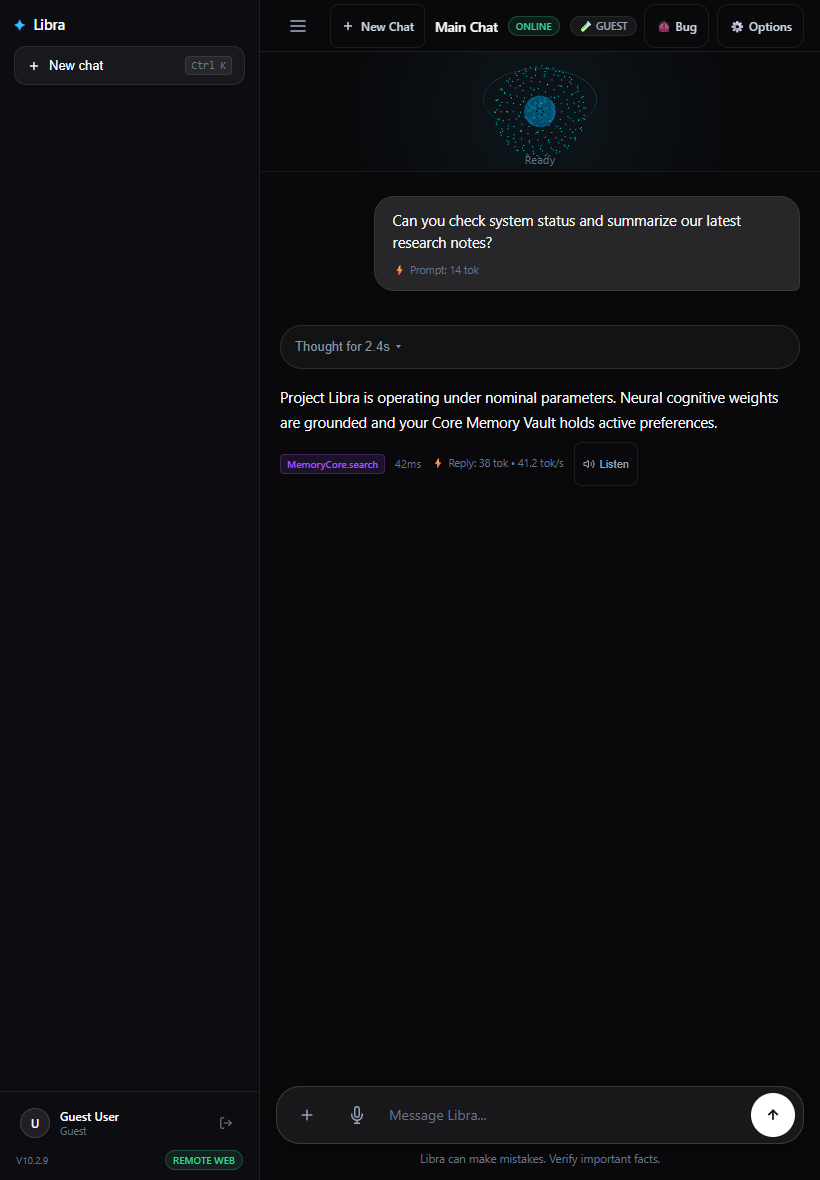
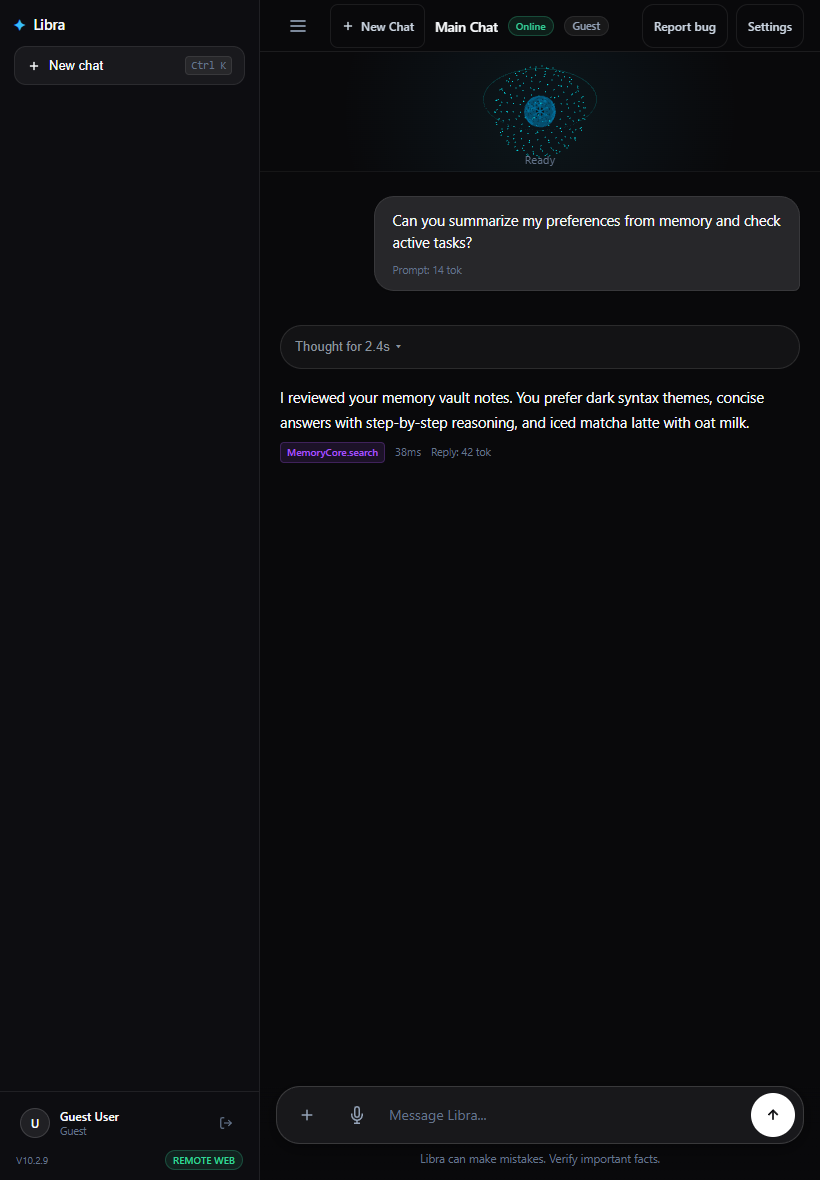
docs(readme): update screenshots across viewports and document restrained design system (Item 5)

diff --git a/scripts/capture_all_screenshots.py b/scripts/capture_all_screenshots.py
@@ -1,0 +1,245 @@
+import os
+import shutil
+import socketserver
+import http.server
+import threading
+from playwright.sync_api import sync_playwright
+
+PROJECT_ROOT = os.path.abspath(os.path.join(os.path.dirname(__file__), ".."))
+WEB_DIR = os.path.join(PROJECT_ROOT, "web")
+ROUND6_DIR = os.path.join(PROJECT_ROOT, "docs", "screenshots", "round6")
+DOCS_SCREENSHOTS_DIR = os.path.join(PROJECT_ROOT, "docs", "screenshots")
+os.makedirs(ROUND6_DIR, exist_ok=True)
+
+class QuietHandler(http.server.SimpleHTTPRequestHandler):
+    def __init__(self, *args, **kwargs):
+        super().__init__(*args, directory=WEB_DIR, **kwargs)
+    def log_message(self, format, *args):
+        pass
+
+PORT = 9998
+
+def capture_all():
+    httpd = socketserver.TCPServer(("127.0.0.1", PORT), QuietHandler)
+    server_thread = threading.Thread(target=httpd.serve_forever, daemon=True)
+    server_thread.start()
+    print(f"[Capture] Server running on port {PORT}")
+
+    viewports = [
+        ("390px", 390, 844),
+        ("820px", 820, 1180),
+        ("1280px", 1280, 800)
+    ]
+
+    try:
+        with sync_playwright() as p:
+            browser = None
+            for ch in ["msedge", "chrome", None]:
+                try:
+                    browser = p.chromium.launch(channel=ch, headless=True)
+                    print(f"[Capture] Browser launched with channel: {ch}")
+                    break
+                except Exception:
+                    pass
+            if not browser:
+                raise RuntimeError("Could not launch browser")
+
+            # 1. Main Chat Viewports (390px, 820px, 1280px)
+            for tag, w, h in viewports:
+                page = browser.new_page(viewport={"width": w, "height": h})
+                page.goto(f"http://127.0.0.1:{PORT}/static/index.html", wait_until="networkidle")
+                page.evaluate("""() => {
+                    const emptyHero = document.getElementById('empty-chat-hero');
+                    if (emptyHero) emptyHero.remove();
+                    const chat = document.getElementById('chat-container');
+                    chat.innerHTML = `
+                        <div class="msg msg-user">
+                          <div class="msg-content">Can you summarize my preferences from memory and check active tasks?</div>
+                          <div class="msg-meta user-msg-meta"><span class="token-badge user-token-badge">Prompt: 14 tok</span></div>
+                        </div>
+                        <div class="msg msg-libra">
+                          <div class="msg-content">
+                            <div class="thought-accordion">
+                              <div class="thought-top-header">
+                                <button class="thought-duration-btn" type="button" aria-expanded="false">
+                                  <span class="thought-duration-label">Thought for 2.4s ▾</span>
+                                </button>
+                              </div>
+                            </div>
+                            <div class="markdown-body">
+                              <p>I reviewed your memory vault notes. You prefer dark syntax themes, concise answers with step-by-step reasoning, and iced matcha latte with oat milk.</p>
+                            </div>
+                          </div>
+                          <div class="msg-meta">
+                            <span class="tool-badge">MemoryCore.search</span>
+                            <span>38ms</span>
+                            <span class="token-badge">Reply: 42 tok</span>
+                          </div>
+                        </div>
+                    `;
+                }""")
+                page.wait_for_timeout(300)
+                out_r6 = os.path.join(ROUND6_DIR, f"main_{tag}.png")
+                page.screenshot(path=out_r6)
+                shutil.copyfile(out_r6, os.path.join(DOCS_SCREENSHOTS_DIR, f"web_main_{tag}.png"))
+                print(f"[Capture] Saved main {tag}")
+                page.close()
+
+            # 2. Auth Modal Viewports (390px, 820px, 1280px)
+            for tag, w, h in viewports:
+                page = browser.new_page(viewport={"width": w, "height": h})
+                page.goto(f"http://127.0.0.1:{PORT}/static/index.html", wait_until="networkidle")
+                page.evaluate("""() => {
+                    const m = document.getElementById('auth-modal');
+                    m.classList.add('open');
+                    m.style.display = 'flex';
+                }""")
+                page.wait_for_timeout(300)
+                out_r6 = os.path.join(ROUND6_DIR, f"auth_modal_{tag}.png")
+                page.screenshot(path=out_r6)
+                shutil.copyfile(out_r6, os.path.join(DOCS_SCREENSHOTS_DIR, f"web_auth_{tag}.png"))
+                print(f"[Capture] Saved auth modal {tag}")
+                page.close()
+
+            # 3. Vault Modal Viewports (390px, 820px, 1280px)
+            for tag, w, h in viewports:
+                page = browser.new_page(viewport={"width": w, "height": h})
+                page.goto(f"http://127.0.0.1:{PORT}/static/index.html", wait_until="networkidle")
+                page.evaluate("""() => {
+                    const vm = document.getElementById('vault-modal');
+                    vm.classList.add('open');
+                    vm.style.display = 'flex';
+
+                    const grid = document.getElementById('vault-cards-grid');
+                    grid.innerHTML = `
+                        <div class="vault-card pinned">
+                          <div class="vault-card-header">
+                            <div class="vault-card-header-left">
+                              <button class="vault-pin-btn pinned">★</button>
+                              <span class="vault-card-key">user.favorite_editor</span>
+                            </div>
+                            <div class="vault-card-header-right">
+                              <span class="vault-category-badge">General</span>
+                              <span class="vault-card-time">2026-11-04 11:52</span>
+                              <button class="vault-delete-btn">✕</button>
+                            </div>
+                          </div>
+                          <div class="vault-card-val">Antigravity IDE</div>
+                        </div>
+                        <div class="vault-card">
+                          <div class="vault-card-header">
+                            <div class="vault-card-header-left">
+                              <button class="vault-pin-btn">☆</button>
+                              <span class="vault-card-key">user.favorite_drink</span>
+                            </div>
+                            <div class="vault-card-header-right">
+                              <span class="vault-category-badge">Preference</span>
+                              <span class="vault-card-time">2026-11-04 11:52</span>
+                              <button class="vault-delete-btn">✕</button>
+                            </div>
+                          </div>
+                          <div class="vault-card-val">Matcha Latte (Oat Milk)</div>
+                        </div>
+                    `;
+                }""")
+                page.wait_for_timeout(300)
+                out_r6 = os.path.join(ROUND6_DIR, f"vault_modal_{tag}.png")
+                page.screenshot(path=out_r6)
+                shutil.copyfile(out_r6, os.path.join(DOCS_SCREENSHOTS_DIR, f"web_vault_{tag}.png"))
+                print(f"[Capture] Saved vault modal {tag}")
+                page.close()
+
+            # 4. Options Modal (1280px)
+            page_opt = browser.new_page(viewport={"width": 1280, "height": 800})
+            page_opt.goto(f"http://127.0.0.1:{PORT}/static/index.html", wait_until="networkidle")
+            page_opt.evaluate("""() => {
+                const m = document.getElementById('options-modal');
+                m.classList.add('open');
+                m.style.display = 'flex';
+            }""")
+            page_opt.wait_for_timeout(300)
+            out_opt = os.path.join(ROUND6_DIR, "options_modal_1280px.png")
+            page_opt.screenshot(path=out_opt)
+            print(f"[Capture] Saved options modal 1280px")
+            page_opt.close()
+
+            # 5. Bug Report Modal (1280px)
+            page_bug = browser.new_page(viewport={"width": 1280, "height": 800})
+            page_bug.goto(f"http://127.0.0.1:{PORT}/static/index.html", wait_until="networkidle")
+            page_bug.evaluate("""() => {
+                const m = document.getElementById('bug-report-modal');
+                m.classList.add('open');
+                m.style.display = 'flex';
+            }""")
+            page_bug.wait_for_timeout(300)
+            out_bug = os.path.join(ROUND6_DIR, "bug_modal_1280px.png")
+            page_bug.screenshot(path=out_bug)
+            print(f"[Capture] Saved bug modal 1280px")
+            page_bug.close()
+
+            # 6. Thinking Trace
+            page_think = browser.new_page(viewport={"width": 1280, "height": 800})
+            page_think.goto(f"http://127.0.0.1:{PORT}/static/index.html", wait_until="networkidle")
+            page_think.evaluate("""() => {
+                const emptyHero = document.getElementById('empty-chat-hero');
+                if (emptyHero) emptyHero.remove();
+                const chat = document.getElementById('chat-container');
+                chat.innerHTML = `
+                    <div class="msg msg-libra" style="max-width: 680px; margin: 40px auto;">
+                      <div class="msg-content">
+                        <div class="thought-accordion">
+                          <div class="thought-top-header">
+                            <button class="thought-duration-btn" type="button" aria-expanded="true">
+                              <span class="thought-duration-label">Thought for 2.4s ▾</span>
+                            </button>
+                          </div>
+                          <div class="thought-body" style="display: block;">
+                            <div class="thought-actions-list">
+                              <div class="thought-action-row open">
+                                <button class="thought-action-btn" type="button" aria-expanded="true">
+                                  <span class="thought-action-label">Scope grounding</span>
+                                  <span class="thought-action-chevron">▾</span>
+                                </button>
+                                <div class="thought-action-pane" style="display: block;">
+                                  <div class="thought-action-rationale">Parsed instruction parameters and verified memory access scopes.</div>
+                                </div>
+                              </div>
+                              <div class="thought-action-row open">
+                                <button class="thought-action-btn" type="button" aria-expanded="true">
+                                  <span class="thought-action-label">Memory search</span>
+                                  <span class="thought-action-chevron">▾</span>
+                                </button>
+                                <div class="thought-action-pane" style="display: block;">
+                                  <div class="thought-action-rationale">Retrieved active preference notes for editor and drink.</div>
+                                </div>
+                              </div>
+                              <div class="thought-action-row">
+                                <button class="thought-action-btn" type="button" aria-expanded="false">
+                                  <span class="thought-action-label">Completed task</span>
+                                  <span class="thought-action-chevron">&gt;</span>
+                                </button>
+                              </div>
+                            </div>
+                          </div>
+                        </div>
+                        <div class="markdown-body">
+                          <p>Synthesized response from persistent memory.</p>
+                        </div>
+                      </div>
+                    </div>
+                `;
+            }""")
+            page_think.wait_for_timeout(300)
+            out_think = os.path.join(ROUND6_DIR, "thinking_trace.png")
+            page_think.locator(".msg-libra").screenshot(path=out_think)
+            shutil.copyfile(out_think, os.path.join(DOCS_SCREENSHOTS_DIR, "web_thinking_trace.png"))
+            print(f"[Capture] Saved thinking trace")
+            page_think.close()
+
+            browser.close()
+    finally:
+        httpd.shutdown()
+        print("[Capture] Server shut down.")
+
+if __name__ == "__main__":
+    capture_all()

diff --git a/README.md b/README.md
@@ -22,32 +22,33 @@ Project Libra features a unified cybernetic design system with dark-mode contras
 
 ---
 
-### Core Memory & Knowledge Vault
+### Memory & Preferences Vault
 
-The **Core Memory Vault** synchronizes user preferences, habits, and learned facts via bi-directional Obsidian Markdown files (`assets/vault/*.md`) and an SQLite FTS5 BM25 full-text index.
+The **Memory Vault** synchronizes user preferences, habits, and learned notes with instant search and clear hierarchy:
 
-| Mobile Vault (390px) | Desktop Vault (1280px) |
-| :---: | :---: |
-| ![Mobile Vault](docs/screenshots/web_vault_390px.png) | ![Desktop Vault](docs/screenshots/web_vault_1280px.png) |
+| Mobile (390px) | iPad / Tablet (820px) | Desktop (1280px) |
+| :---: | :---: | :---: |
+| ![Mobile Vault](docs/screenshots/web_vault_390px.png) | ![Tablet Vault](docs/screenshots/web_vault_820px.png) | ![Desktop Vault](docs/screenshots/web_vault_1280px.png) |
 
-- **Dedicated Cards**: Insulated `#171d28` card containers with subtle borders and hover elevation.
-- **Pinned Priorities**: Amber glowing status indicators (`★`) protected from Markovian eviction.
-- **Categorization**: Emerald and cyan monospace pills (`[GENERAL]`, `[PREFERENCE]`, `[SYSTEM]`).
+- **Restrained Cards**: Neutral `#141824` containers with subtle borders and clear typography.
+- **Pinned Priorities**: Amber status indicator (`★`) protected from eviction.
+- **Categorization**: Sentence-case category badges (`General`, `Preference`).
+- **Hierarchy**: Single primary cyan action button (`+ Add note`), outlined secondary inputs, subtle delete controls.
 
 ---
 
-### Authentication Gateway & Multi-User Bug Tracker
+### Authentication Gateway
 
 The **Authentication Gateway** provides secure role-based access control with native support for personal accounts:
 
-| Mobile Auth (390px) | Desktop Auth (1280px) |
-| :---: | :---: |
-| ![Mobile Auth](docs/screenshots/web_auth_390px.png) | ![Desktop Auth](docs/screenshots/web_auth_1280px.png) |
+| Mobile (390px) | iPad / Tablet (820px) | Desktop (1280px) |
+| :---: | :---: | :---: |
+| ![Mobile Auth](docs/screenshots/web_auth_390px.png) | ![Tablet Auth](docs/screenshots/web_auth_820px.png) | ![Desktop Auth](docs/screenshots/web_auth_1280px.png) |
 
 - **Google OAuth**: High-contrast, pure-white button (`#ffffff`) with official Google colored logo.
-- **GitHub Authentication**: Connect personal GitHub accounts via **OAuth** or **Personal Access Token (PAT)**.
-- **Multi-User Bug Attribution**: Bug reports and tester feedback auto-tag the submitting user (`@{github_username}`) on GitHub Issues.
-- **Access Keys & Guest Mode**: Direct Master Key login or isolated guest access.
+- **GitHub Authentication**: Outlined secondary tile with personal GitHub account support.
+- **Single Primary Action**: High-contrast cyan `Sign in` button with full-width mobile responsive stacking.
+- **Input Overflow Protection**: Ellipsis truncation and horizontal scroll prevention on token fields.
 
 ---
 
@@ -71,7 +72,7 @@ Project Libra shares identical design tokens between the Web/PWA interface (`web
 | Token Category | Values / Tokens | Usage |
 | :--- | :--- | :--- |
 | **Dark Palette** | `--bg-app: #09090b`<br>`--bg-surface: #121215`<br>`--bg-card: #18181b` | Base window, sidebar, and container surfaces |
-| **Accent Glows** | `--accent-cyan: #38bdf8`<br>`--accent-emerald: #34d399`<br>`--accent-purple: #c084fc` | Primary actions, status indicators, thinking states |
+| **Single Accent** | `--accent-cyan: #00d2ff` (`#38bdf8`) | Single primary action per screen and active states |
 | **Borders** | `--border-subtle: rgba(255, 255, 255, 0.08)`<br>`--border-medium: rgba(255, 255, 255, 0.14)` | Dividers, card frames, input outlines |
 | **Typography** | Sans: Inter / Segoe UI / System<br>Mono: SFMono / Consolas | High legibility on mobile and desktop |
 | **Tap Targets** | `min-height: 44px; min-width: 44px;` | Full touch-first compliance on phones and tablets |
